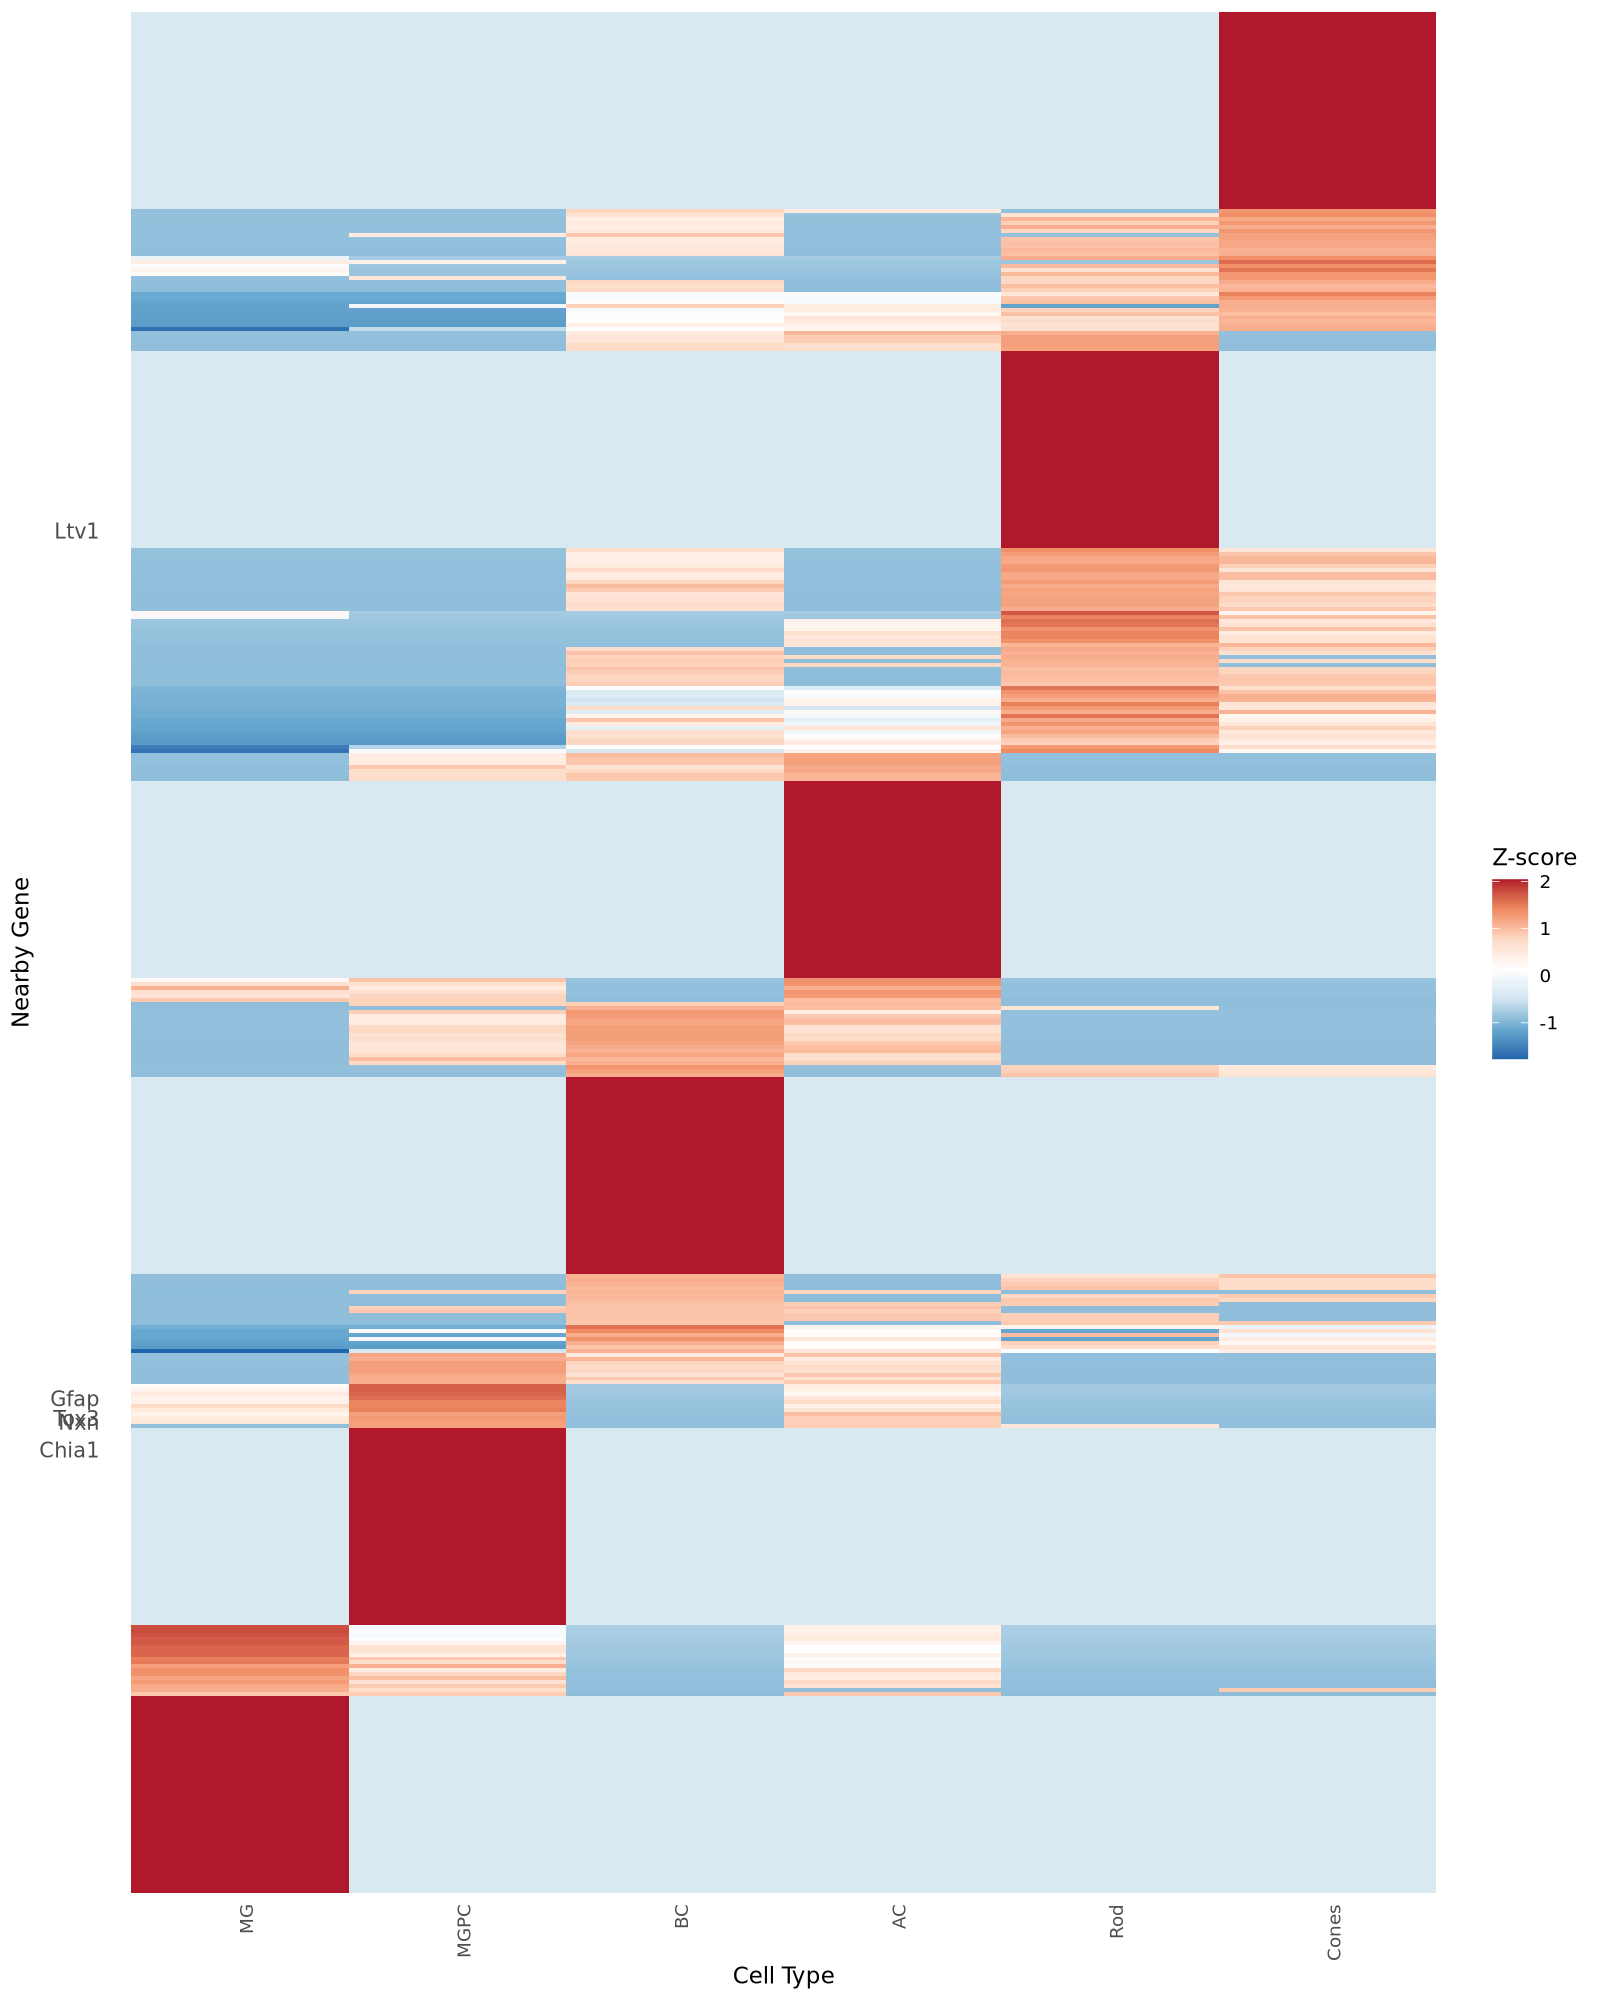
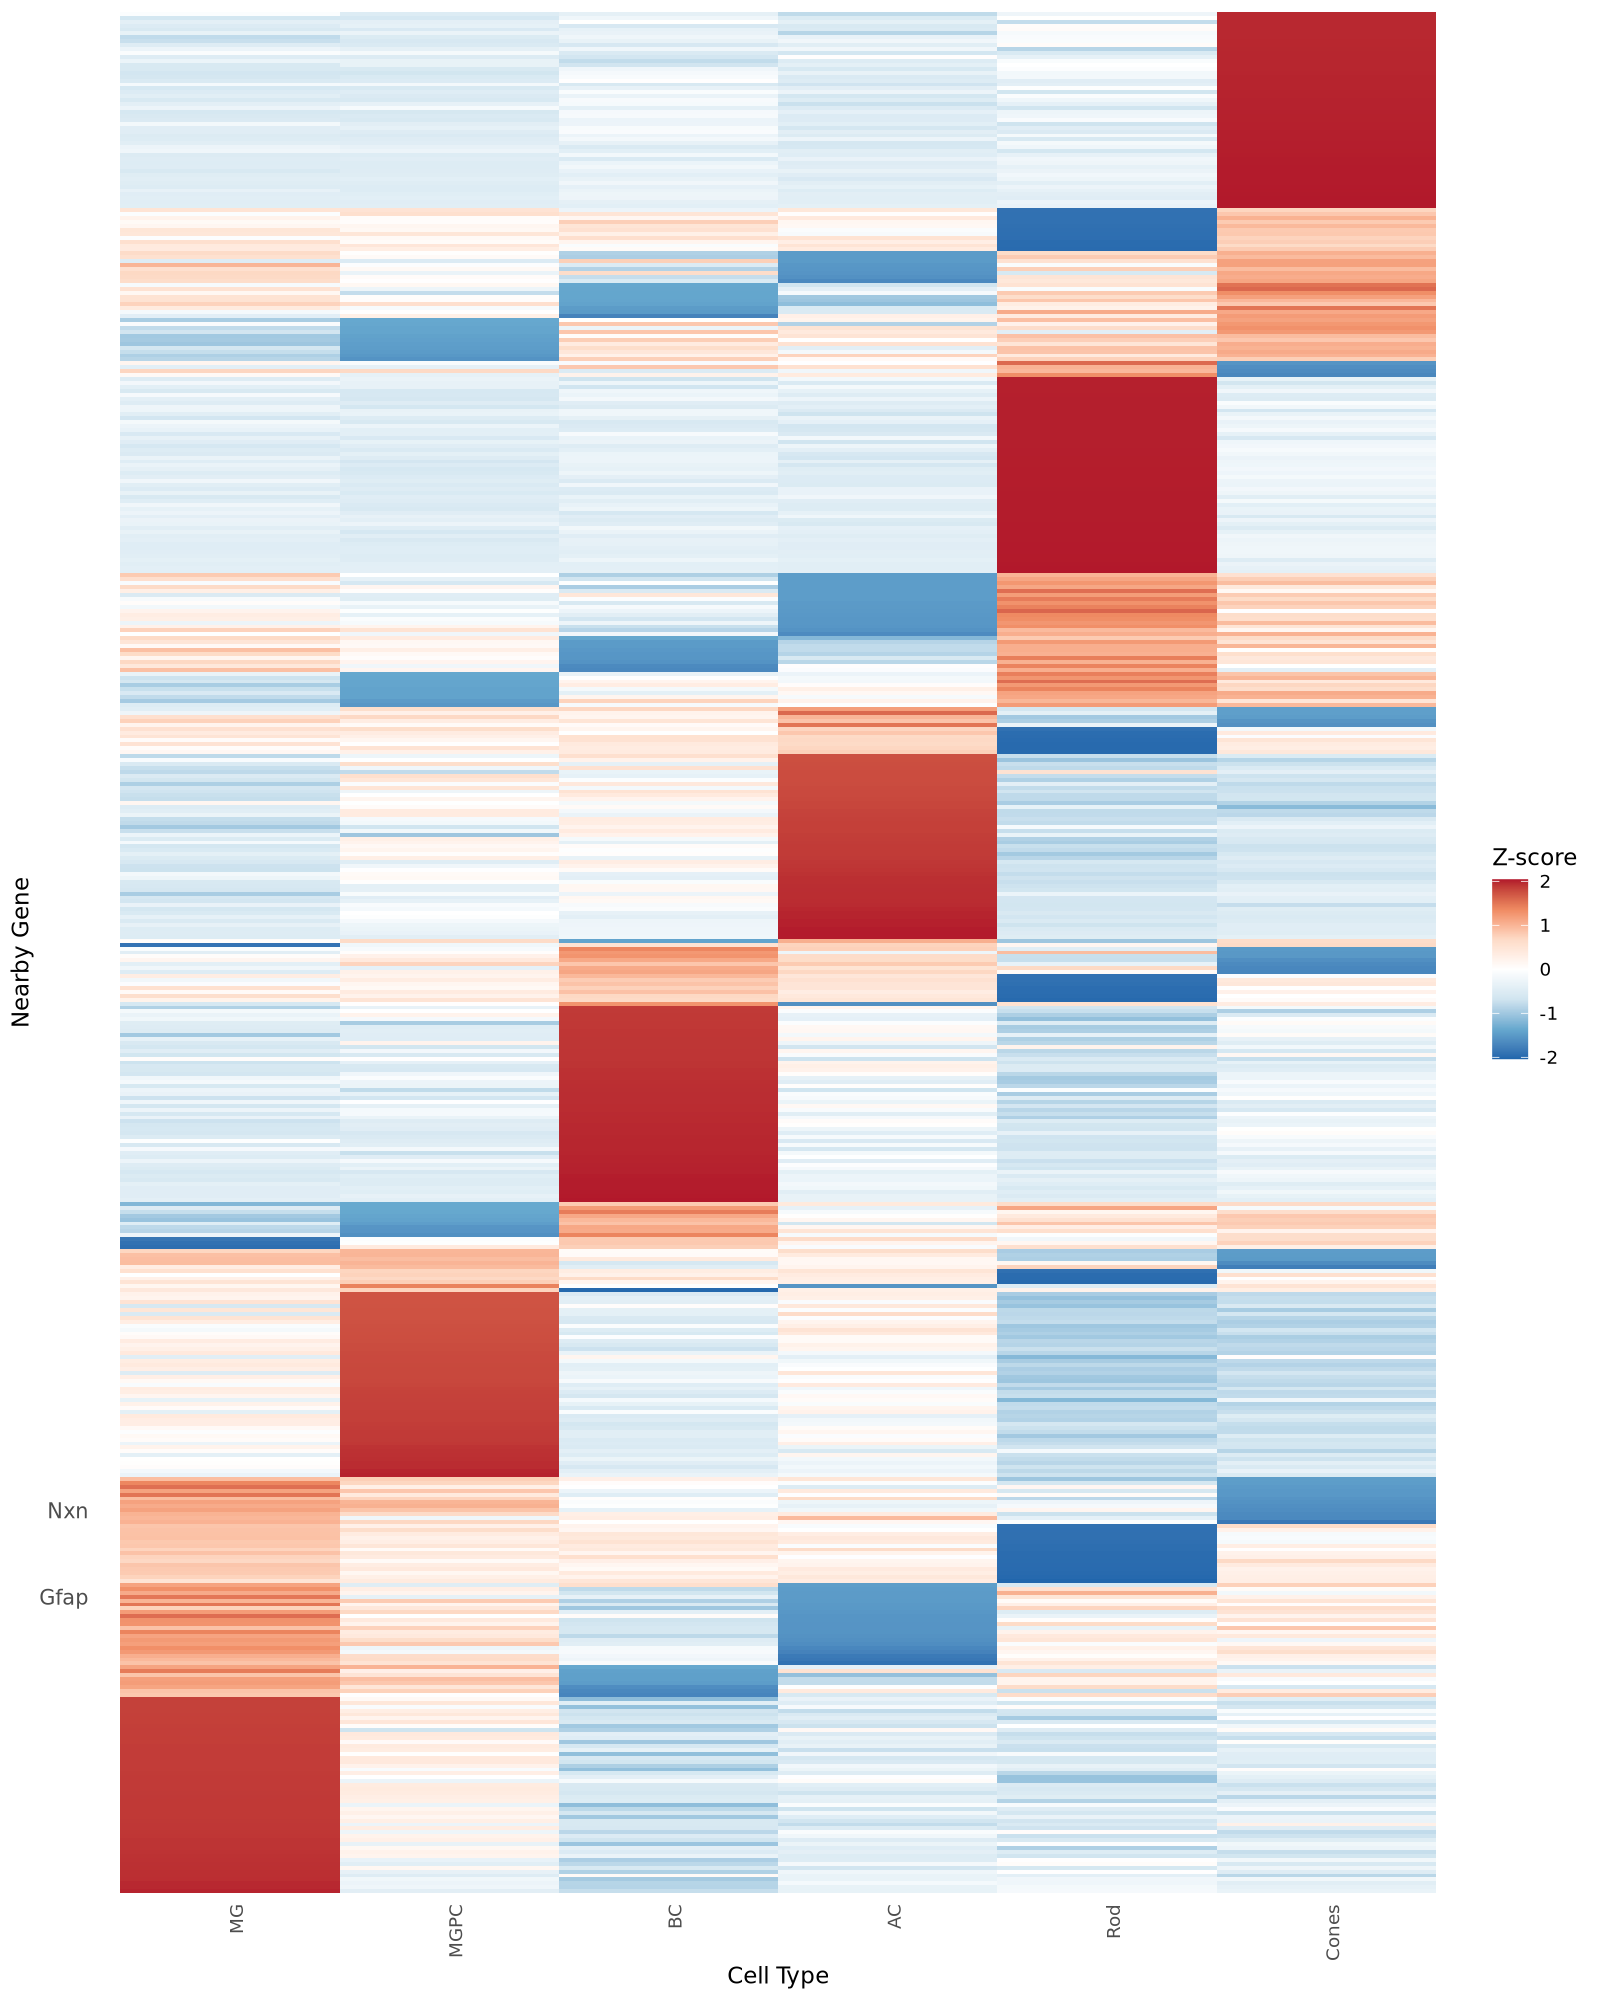
make plotPeaks based on zscore(exp)

diff --git a/README.md b/README.md
@@ -163,7 +163,7 @@ myObject.atac.markers <- FindAllMarkers(
 
 [Merged Ranked DiffPeaks](https://docs.google.com/spreadsheets/d/1WrM1nD6XbIRr8Eo9RFqT8Ba4bGvVSVx9u4QsQ7ihyxY/edit?usp=sharing)
 
-![](figures/TopPeaksNearbyheatmap.png?v=3)
+![](figures/TopPeaksNearbyheatmap.png?v=4)
 
 
 #  Subset MG/MGPC 
